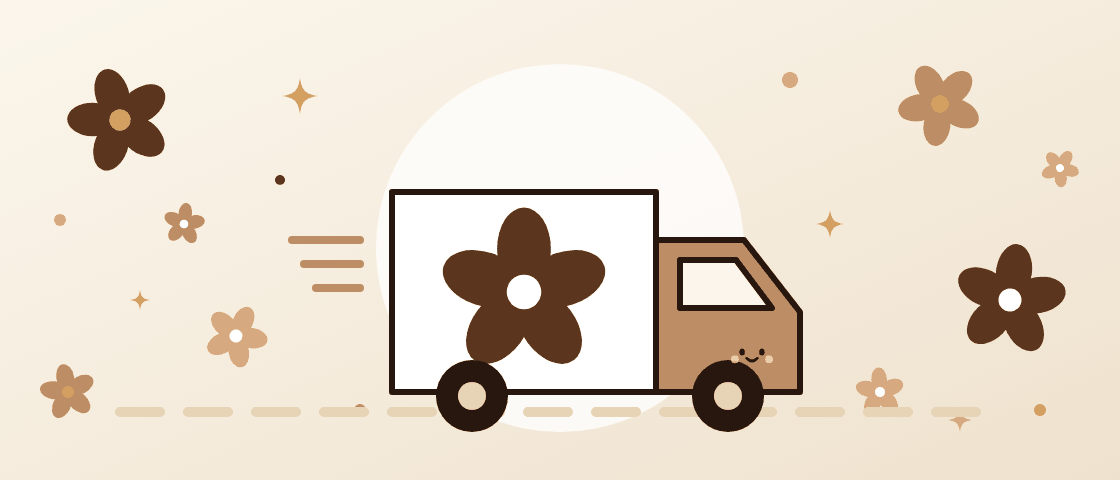
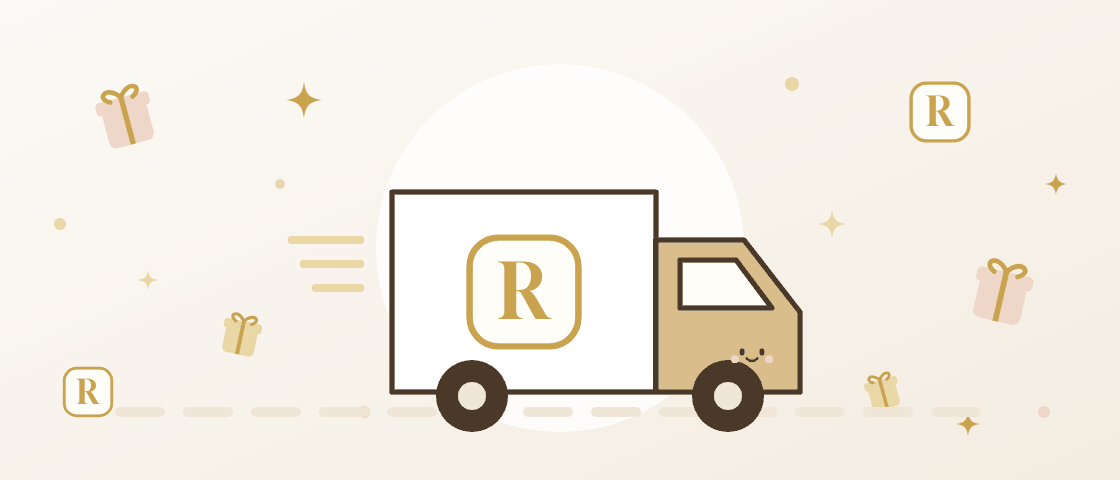
Emails: new pastel/gold hero illustrations with the R monogram (no Azalea flowers), calm RBC palette and sans headings; Supabase templates use links that work in any browser, plus the code
Claude-Session: https://claude.ai/code/session_017r2n3BfUiKovAfFsusU44H

diff --git a/scripts/email-heroes/heroes.js b/scripts/email-heroes/heroes.js
@@ -1,51 +1,67 @@
-// Whimsical email heroes: one scene per email, RBC flowers floating around. 560x240 canvas.
-const K = '#27170E', P = '#5B351D', L = '#BD8D65', LL = '#E7D3B6', PK = '#D8A579', BL = '#E7C9A6', CR = '#FBF6EC', Y = '#E0A456', M = '#CBBfa0', W = '#FFFFFF';
+// Email heroes for The RBC Brand: one calm scene per email, pastel oat ground, gold accents,
+// the R monogram where Azalea used flowers. 560x240 canvas. Rendered to PNG by render.js.
+const K = '#4A3829';   // soft coffee outline (never the heavy dark brown)
+const P = '#D9BE8C';   // warm sand: main object fill
+const G = '#C9A34E';   // gold accent
+const GL = '#EAD7A6';  // pale gold
+const L = '#E2D2BC';   // camel light
+const LL = '#EFE6D8';  // oat
+const PK = '#EED6C8';  // blush
+const BL = '#F2D3C2';  // cheeks
+const CR = '#FFFDF8';  // cream
+const SG = '#DCE5D3';  // soft sage (ticks, success)
+const W = '#FFFFFF';
 const S0 = `stroke-linejoin="round" stroke-linecap="round"`;
-const S = `stroke="${K}" stroke-width="3" ${S0}`;
+const S = `stroke="${K}" stroke-width="2.6" ${S0}`;
 
-const flower = (x, y, s = 1, c = P, r = 0, core = W) => `<g transform="translate(${x} ${y}) rotate(${r}) scale(${s})">${[0, 72, 144, 216, 288].map((a) => `<ellipse cx="0" cy="-9" rx="5.6" ry="8.6" fill="${c}" transform="rotate(${a})"/>`).join('')}<circle r="3.6" fill="${core}"/></g>`;
-const sparkle = (x, y, s = 1, c = Y) => `<path transform="translate(${x} ${y}) scale(${s})" d="M0-10 C1-3 3-1 10 0 C3 1 1 3 0 10 C-1 3 -3 1 -10 0 C-3 -1 -1 -3 0-10Z" fill="${c}"/>`;
+// the RBC mark: a rounded tile with a serif R
+const mono = (x, y, s = 1, fill = CR, ink = G) => `<g transform="translate(${x} ${y}) scale(${s})"><rect x="-17" y="-17" width="34" height="34" rx="9" fill="${fill}" stroke="${ink}" stroke-width="2"/><text x="0" y="8.5" text-anchor="middle" font-family="Gloock, Georgia, serif" font-size="24" fill="${ink}">R</text></g>`;
+const seal = (x, y, s = 1) => `<g transform="translate(${x} ${y}) scale(${s})"><circle r="15" fill="${G}" ${S} stroke-width="2.2"/><text x="0" y="6.5" text-anchor="middle" font-family="Gloock, Georgia, serif" font-size="18" fill="${CR}">R</text></g>`;
+const sparkle = (x, y, s = 1, c = G) => `<path transform="translate(${x} ${y}) scale(${s})" d="M0-10 C1-3 3-1 10 0 C3 1 1 3 0 10 C-1 3 -3 1 -10 0 C-3 -1 -1 -3 0-10Z" fill="${c}"/>`;
 const dot = (x, y, r = 3, c = L) => `<circle cx="${x}" cy="${y}" r="${r}" fill="${c}"/>`;
+const gift = (x, y, s = 1, c = PK, r = 0) => `<g transform="translate(${x} ${y}) rotate(${r}) scale(${s})"><rect x="-10" y="-8" width="20" height="17" rx="3" fill="${c}"/><rect x="-12" y="-12" width="24" height="6" rx="2" fill="${c}"/><path d="M0 -12 V9" stroke="${G}" stroke-width="2.4"/><path d="M0 -12 c-5 -7 -11 -2 -5 1 M0 -12 c5 -7 11 -2 5 1" fill="none" stroke="${G}" stroke-width="2" ${S0}/></g>`;
 const face = (x, y, s = 1, mood = 'happy') => `<g transform="translate(${x} ${y}) scale(${s})">
-  <ellipse cx="-11" cy="0" rx="3" ry="4" fill="${K}"/><ellipse cx="11" cy="0" rx="3" ry="4" fill="${K}"/>
-  <circle cx="-19" cy="8" r="4.5" fill="${BL}" opacity=".9"/><circle cx="19" cy="8" r="4.5" fill="${BL}" opacity=".9"/>
-  ${mood === 'happy' ? `<path d="M-6 7 Q0 13 6 7" fill="none" ${S} stroke-width="2.6"/>` : mood === 'wow' ? `<ellipse cx="0" cy="9" rx="3.4" ry="4" fill="${K}"/>` : mood === 'sad' ? `<path d="M-6 11 Q0 6 6 11" fill="none" ${S} stroke-width="2.6"/>` : `<path d="M-5 9 L5 9" ${S} stroke-width="2.6"/>`}</g>`;
-const motion = (x, y, n = 3, len = 26) => Array.from({ length: n }, (_, i) => `<path d="M${x} ${y + i * 12} h-${len - i * 6}" ${S0} stroke="${L}" stroke-width="4"/>`).join('');
+  <ellipse cx="-11" cy="0" rx="2.8" ry="3.8" fill="${K}"/><ellipse cx="11" cy="0" rx="2.8" ry="3.8" fill="${K}"/>
+  <circle cx="-19" cy="8" r="4.5" fill="${BL}"/><circle cx="19" cy="8" r="4.5" fill="${BL}"/>
+  ${mood === 'happy' ? `<path d="M-6 7 Q0 13 6 7" fill="none" ${S} stroke-width="2.4"/>` : mood === 'wow' ? `<ellipse cx="0" cy="9" rx="3.2" ry="3.8" fill="${K}"/>` : `<path d="M-5 9 L5 9" ${S} stroke-width="2.4"/>`}</g>`;
+const motion = (x, y, n = 3, len = 26) => Array.from({ length: n }, (_, i) => `<path d="M${x} ${y + i * 12} h-${len - i * 6}" ${S0} stroke="${GL}" stroke-width="4"/>`).join('');
 
-// floating flowers + confetti shared by every scene (positions avoid the centre)
+// floating gifts, monograms and sparkles shared by every scene (kept clear of the centre)
 const floaters = (seed = 0) => {
-  const f = [[60, 60, 1.5, P, 12], [118, 168, .9, PK, -20], [92, 112, .6, L, 30], [470, 52, 1.2, L, -8], [505, 150, 1.6, P, 25], [440, 196, .7, PK, 10], [34, 196, .8, L, 0], [530, 84, .55, PK, 40]];
-  const sp = [[150, 48, .9, Y], [415, 112, .7, Y], [480, 210, .6, PK], [70, 150, .5, Y]];
-  const d = [[180, 205, 3, L], [395, 40, 4, PK], [140, 90, 2.5, P], [520, 205, 3, Y], [30, 110, 3, PK]];
-  return f.map((a, i) => flower(a[0], a[1], a[2], a[3], a[4] + seed * 17 + i * 3, i % 3 ? W : Y)).join('') + sp.map((a) => sparkle(...a)).join('') + d.map((a) => dot(...a)).join('');
+  const gifts = [[64, 62, 1.15, PK, -10], [120, 170, .8, GL, 12], [500, 150, 1.2, PK, 8], [442, 198, .7, GL, -14]];
+  const monos = [[470, 56, .85], [44, 196, .7]];
+  const sp = [[152, 50, .9, G], [416, 112, .7, GL], [484, 212, .6, G], [74, 140, .5, GL], [528, 92, .55, G]];
+  const d = [[182, 206, 3, L], [396, 42, 3.5, GL], [140, 92, 2.5, L], [522, 206, 3, PK], [30, 112, 3, GL]];
+  return gifts.map((a, i) => gift(a[0], a[1], a[2], a[3], a[4] + ((seed * 7 + i * 5) % 11) - 5)).join('') + monos.map((a) => mono(...a)).join('') + sp.map((a) => sparkle(...a)).join('') + d.map((a) => dot(...a)).join('');
 };
-const ground = (w = 200) => `<ellipse cx="280" cy="214" rx="${w / 2}" ry="10" fill="${LL}" opacity=".85"/>`;
+const ground = (w = 200) => `<ellipse cx="280" cy="214" rx="${w / 2}" ry="9" fill="${LL}"/>`;
 const scene = (body, seed) => `<svg xmlns="http://www.w3.org/2000/svg" viewBox="0 0 560 240" width="560" height="240">
-<defs><linearGradient id="bg" x1="0" y1="0" x2="1" y2="1"><stop offset="0" stop-color="#FBF6EC"/><stop offset="1" stop-color="#EFE2CE"/></linearGradient></defs>
+<defs><linearGradient id="bg" x1="0" y1="0" x2="1" y2="1"><stop offset="0" stop-color="#FCFAF6"/><stop offset="1" stop-color="#F3ECE1"/></linearGradient></defs>
 <rect width="560" height="240" fill="url(#bg)"/>
-<circle cx="280" cy="124" r="92" fill="${W}" opacity=".75"/>
+<circle cx="280" cy="124" r="92" fill="${W}" opacity=".8"/>
 ${floaters(seed)}${body}</svg>`;
 
 const envelope = (x, y, w, h, fill = W, flap = LL) => `<rect x="${x}" y="${y}" width="${w}" height="${h}" rx="10" fill="${fill}" ${S}/><path d="M${x + 4} ${y + 6} L${x + w / 2} ${y + h * .55} L${x + w - 4} ${y + 6}" fill="${flap}" ${S}/>`;
-const key = (x, y, r = 0, s = 1) => `<g transform="translate(${x} ${y}) rotate(${r}) scale(${s})"><path d="M14 0 H62 M48 0 v12 M58 0 v9" ${S} stroke-width="11"/><path d="M14 0 H62 M48 0 v12 M58 0 v9" stroke="${Y}" stroke-width="5" stroke-linecap="round" fill="none"/><circle r="18" fill="${Y}" ${S}/><circle r="6" fill="${CR}" ${S} stroke-width="2.4"/></g>`;
-const box = (x, y, w, h, c = '#E8C79A', top = '#F2D7AE') => `<path d="M${x} ${y} h${w} v${h} h-${w}Z" fill="${c}" ${S}/><path d="M${x - 8} ${y - 18} h${w + 16} v18 h-${w + 16}Z" fill="${top}" ${S}/>`;
-const bag = (x, y, w = 110, h = 100, c = P) => `<path d="M${x + w * .3} ${y} q0 -34 ${w * .2} -34 q${w * .2} 0 ${w * .2} 34" fill="none" ${S} stroke-width="5"/><path d="M${x} ${y} h${w} l8 ${h} h-${w + 16}Z" fill="${c}" ${S}/>`;
+const key = (x, y, r = 0, s = 1) => `<g transform="translate(${x} ${y}) rotate(${r}) scale(${s})"><path d="M14 0 H62 M48 0 v12 M58 0 v9" ${S} stroke-width="10"/><path d="M14 0 H62 M48 0 v12 M58 0 v9" stroke="${G}" stroke-width="4.5" stroke-linecap="round" fill="none"/><circle r="18" fill="${G}" ${S}/><circle r="6" fill="${CR}" ${S} stroke-width="2.2"/></g>`;
+const box = (x, y, w, h, c = P, top = GL) => `<path d="M${x} ${y} h${w} v${h} h-${w}Z" fill="${c}" ${S}/><path d="M${x - 8} ${y - 18} h${w + 16} v18 h-${w + 16}Z" fill="${top}" ${S}/>`;
+const bag = (x, y, w = 110, h = 100, c = P) => `<path d="M${x + w * .3} ${y} q0 -34 ${w * .2} -34 q${w * .2} 0 ${w * .2} 34" fill="none" ${S} stroke-width="4.5"/><path d="M${x} ${y} h${w} l8 ${h} h-${w + 16}Z" fill="${c}" ${S}/>`;
+const coin = (x, y, r = 40) => `<circle cx="${x}" cy="${y}" r="${r}" fill="${G}" ${S}/><circle cx="${x}" cy="${y}" r="${r * .7}" fill="none" stroke="${GL}" stroke-width="3"/><text x="${x}" y="${y + r * .32}" text-anchor="middle" font-family="Gloock, Georgia, serif" font-size="${r * .9}" fill="${CR}">R</text>`;
 
 const H = {
-  signin: scene(`${ground(190)}${envelope(208, 92, 144, 104)}${face(280, 166)}${key(372, 80, 35, 1)}${flower(280, 92, 1.1, P, 0, Y)}`, 1),
-  confirm: scene(`${ground(190)}${envelope(208, 92, 144, 104)}${face(280, 168)}<circle cx="352" cy="92" r="24" fill="${M}" ${S}/><path d="M341 92 l8 8 l15 -16" fill="none" ${S} stroke-width="4"/>`, 2),
+  signin: scene(`${ground(190)}${envelope(208, 92, 144, 104)}${face(280, 166)}${key(372, 80, 35, 1)}${seal(280, 94, 1.1)}`, 1),
+  confirm: scene(`${ground(190)}${envelope(208, 92, 144, 104)}${face(280, 168)}${seal(280, 94, 1)}<circle cx="352" cy="92" r="24" fill="${SG}" ${S}/><path d="M341 92 l8 8 l15 -16" fill="none" ${S} stroke-width="3.6"/>`, 2),
   recovery: scene(`${ground(170)}<circle cx="280" cy="120" r="64" fill="${LL}" ${S}/><path d="M272 104 a12 12 0 1 1 16 0 l6 34 h-28Z" fill="${K}"/>${key(200, 176, -30, .9)}${face(280, 158, .55)}${sparkle(352, 72, 1.1)}`, 3),
-  email_change: scene(`${ground(240)}${envelope(170, 104, 100, 76, W, LL)}${envelope(292, 104, 100, 76, LL, L)}${face(220, 160, .7)}${face(342, 160, .7)}<path d="M240 86 q41 -30 82 0" fill="none" ${S} stroke-width="3.5"/><path d="M314 78 l9 8 l-11 4" fill="none" ${S} stroke-width="3.5"/>`, 4),
-  invite: scene(`${ground(190)}<path d="M212 104 L280 56 L348 104" fill="${LL}" ${S}/><rect x="226" y="72" width="108" height="80" rx="6" fill="${CR}" ${S}/><path d="M246 96 h68 M246 112 h50" ${S0} stroke="${L}" stroke-width="4"/>${envelope(208, 104, 144, 92, W, 'none')}${face(280, 172)}<path d="M268 52 L280 18 L292 52Z" fill="${PK}" ${S}/>${dot(280, 16, 5, Y)}${sparkle(196, 70, .9, PK)}${sparkle(366, 64, 1, Y)}`, 5),
-  reauth: scene(`${ground(170)}<path d="M280 46 L338 66 V118 C338 156 310 180 280 192 C250 180 222 156 222 118 V66Z" fill="${L}" ${S}/>${face(280, 112, .9)}<g>${[0, 1, 2, 3].map((i) => `<rect x="${243 + i * 20}" y="142" width="14" height="18" rx="4" fill="${W}" ${S} stroke-width="2.4"/>`).join('')}</g>`, 6),
-  paid: scene(`${ground(200)}<rect x="330" y="92" width="58" height="84" rx="6" fill="${W}" ${S} transform="rotate(10 359 134)"/><path d="M345 112 h30 M345 126 h22 M345 140 h28" ${S0} stroke="${LL}" stroke-width="4" transform="rotate(10 359 134)"/>${bag(222, 104, 112, 102)}${face(278, 150)}<path d="M278 134 c-8 -12 -24 -4 -12 10 l12 10 l12 -10 c12 -14 -4 -22 -12 -10Z" fill="${PK}" ${S} stroke-width="2.4" transform="translate(0 -18)"/>`, 7),
-  transfer: scene(`${ground(240)}<rect x="176" y="62" width="78" height="138" rx="14" fill="${K}"/><rect x="183" y="74" width="64" height="112" rx="8" fill="${W}"/><text x="215" y="130" text-anchor="middle" font-family="Georgia,serif" font-size="34" fill="${P}">₦</text>${face(215, 152, .55)}<path d="M266 128 h56" ${S} stroke-width="4" stroke-dasharray="2 9"/><path d="M318 118 l12 10 l-12 10" fill="none" ${S} stroke-width="4"/><circle cx="372" cy="140" r="40" fill="${Y}" ${S}/><circle cx="372" cy="140" r="28" fill="none" ${S0} stroke="#E8B53E" stroke-width="3"/>${flower(372, 140, 1.4, P, 10, Y)}`, 8),
-  delivery_fee: scene(`${ground(180)}<path d="M228 52 h104 v150 l-13 -9 l-13 9 l-13 -9 l-13 9 l-13 -9 l-13 9 l-13 -9 l-13 9Z" fill="${W}" ${S}/><text x="280" y="98" text-anchor="middle" font-family="Georgia,serif" font-size="30" fill="${P}">₦</text><path d="M248 118 h64 M248 134 h46" ${S0} stroke="${LL}" stroke-width="4"/>${face(280, 160, .7)}<g transform="rotate(35 360 120)"><rect x="352" y="72" width="16" height="84" rx="3" fill="${Y}" ${S}/><path d="M352 156 l8 16 l8 -16Z" fill="${CR}" ${S}/><rect x="352" y="72" width="16" height="12" fill="${PK}" ${S}/></g>`, 9),
-  packed: scene(`${ground(210)}${box(220, 110, 120, 92)}<path d="M280 92 v110" ${S0} stroke="${P}" stroke-width="10"/><path d="M280 94 c-22 -26 -44 -6 -22 6Z M280 94 c22 -26 44 -6 22 6Z" fill="${P}" ${S}/><circle cx="280" cy="94" r="7" fill="${PK}" ${S}/>${face(250, 154, .75)}${flower(318, 168, .9, P, 0, Y)}`, 10),
-  shipped: scene(`<path d="M60 206 H500" ${S0} stroke="${LL}" stroke-width="5" stroke-dasharray="20 14"/><path d="M196 96 h132 v100 h-132Z" fill="${W}" ${S}/><path d="M328 120 h44 l28 36 v40 h-72Z" fill="${L}" ${S}/><path d="M340 130 h28 l18 24 h-46Z" fill="${CR}" ${S}/>${flower(262, 146, 2.4, P, 0, W)}<circle cx="236" cy="198" r="18" fill="${K}"/><circle cx="236" cy="198" r="7" fill="${LL}"/><circle cx="364" cy="198" r="18" fill="${K}"/><circle cx="364" cy="198" r="7" fill="${LL}"/>${motion(180, 120, 3, 34)}${face(376, 176, .45)}`, 11),
-  pickup: scene(`${ground(230)}<rect x="196" y="98" width="168" height="104" fill="${CR}" ${S}/><path d="M188 74 h184 l-8 28 h-168Z" fill="${W}" ${S}/>${[0, 1, 2, 3, 4, 5].map((i) => `<path d="M${196 + i * 28} 102 a14 14 0 0 0 28 0" fill="${i % 2 ? W : PK}" ${S}/>`).join('')}<rect x="300" y="138" width="40" height="64" rx="4" fill="${L}" ${S}/>${bag(214, 160, 56, 42, P)}${flower(242, 180, .7, W, 0, Y)}<text x="280" y="94" text-anchor="middle" font-family="Georgia,serif" font-size="16" fill="${P}">azalea</text>${face(320, 168, .45)}`, 12),
-  delivered: scene(`${ground(220)}${box(222, 130, 116, 72)}<path d="M214 112 l-30 -26 l38 -4 Z" fill="#F2D7AE" ${S}/><path d="M346 112 l30 -26 l-38 -4Z" fill="#F2D7AE" ${S}/>${flower(258, 82, 1.5, P, 10, Y)}${flower(304, 70, 1.8, PK, -10, W)}${flower(282, 108, 1.2, L, 20, Y)}${sparkle(230, 60, 1.1)}${sparkle(334, 44, .9, PK)}${face(280, 166, .9)}`, 13),
-  cancelled: scene(`${ground(200)}${box(226, 120, 108, 82, '#E6DCEF', '#F1EAF7')}${face(280, 162, .85, 'flat')}<rect x="320" y="84" width="54" height="34" rx="6" fill="${W}" ${S} transform="rotate(12 347 101)"/><path d="M339 93 l14 14 M353 93 l-14 14" ${S0} stroke="${PK}" stroke-width="4" transform="rotate(12 347 101)"/><path d="M262 82 q8 -16 18 0 q8 -16 18 0" fill="none" ${S0} stroke="${L}" stroke-width="3"/>`, 14),
-  team: scene(`${ground(200)}<path d="M240 168 c0 -60 10 -92 40 -92 s40 32 40 92Z" fill="${Y}" ${S}/><rect x="226" y="166" width="108" height="16" rx="8" fill="${Y}" ${S}/><circle cx="280" cy="192" r="10" fill="${P}" ${S}/><circle cx="280" cy="70" r="7" fill="${Y}" ${S}/>${face(280, 132, .8, 'wow')}<path d="M210 96 q-12 22 0 44 M196 86 q-18 32 0 64 M350 96 q12 22 0 44 M364 86 q18 32 0 64" fill="none" ${S0} stroke="${P}" stroke-width="3.5"/>`, 15),
+  email_change: scene(`${ground(240)}${envelope(170, 104, 100, 76, W, LL)}${envelope(292, 104, 100, 76, GL, P)}${face(220, 160, .7)}${face(342, 160, .7)}<path d="M240 86 q41 -30 82 0" fill="none" ${S} stroke-width="3.2"/><path d="M314 78 l9 8 l-11 4" fill="none" ${S} stroke-width="3.2"/>`, 4),
+  invite: scene(`${ground(190)}<path d="M212 104 L280 56 L348 104" fill="${LL}" ${S}/><rect x="226" y="72" width="108" height="80" rx="6" fill="${CR}" ${S}/><path d="M246 96 h68 M246 112 h50" ${S0} stroke="${GL}" stroke-width="4"/>${envelope(208, 104, 144, 92, W, 'none')}${face(280, 172)}${mono(280, 40, 1.1)}${sparkle(196, 70, .9, GL)}${sparkle(366, 64, 1, G)}`, 5),
+  reauth: scene(`${ground(170)}<path d="M280 46 L338 66 V118 C338 156 310 180 280 192 C250 180 222 156 222 118 V66Z" fill="${GL}" ${S}/>${face(280, 112, .9)}<g>${[0, 1, 2, 3].map((i) => `<rect x="${243 + i * 20}" y="142" width="14" height="18" rx="4" fill="${W}" ${S} stroke-width="2.2"/>`).join('')}</g>`, 6),
+  paid: scene(`${ground(200)}<rect x="330" y="92" width="58" height="84" rx="6" fill="${W}" ${S} transform="rotate(10 359 134)"/><path d="M345 112 h30 M345 126 h22 M345 140 h28" ${S0} stroke="${LL}" stroke-width="4" transform="rotate(10 359 134)"/>${bag(222, 104, 112, 102)}${face(278, 150)}<path d="M278 134 c-8 -12 -24 -4 -12 10 l12 10 l12 -10 c12 -14 -4 -22 -12 -10Z" fill="${PK}" ${S} stroke-width="2.2" transform="translate(0 -18)"/>`, 7),
+  transfer: scene(`${ground(240)}<rect x="176" y="62" width="78" height="138" rx="14" fill="${K}"/><rect x="183" y="74" width="64" height="112" rx="8" fill="${W}"/><text x="215" y="130" text-anchor="middle" font-family="Georgia,serif" font-size="34" fill="${G}">₦</text>${face(215, 152, .55)}<path d="M266 128 h56" ${S} stroke-width="3.6" stroke-dasharray="2 9"/><path d="M318 118 l12 10 l-12 10" fill="none" ${S} stroke-width="3.6"/>${coin(372, 140)}`, 8),
+  delivery_fee: scene(`${ground(180)}<path d="M228 52 h104 v150 l-13 -9 l-13 9 l-13 -9 l-13 9 l-13 -9 l-13 9 l-13 -9 l-13 9Z" fill="${W}" ${S}/><text x="280" y="98" text-anchor="middle" font-family="Georgia,serif" font-size="30" fill="${G}">₦</text><path d="M248 118 h64 M248 134 h46" ${S0} stroke="${LL}" stroke-width="4"/>${face(280, 160, .7)}<g transform="rotate(35 360 120)"><rect x="352" y="72" width="16" height="84" rx="3" fill="${G}" ${S}/><path d="M352 156 l8 16 l8 -16Z" fill="${CR}" ${S}/><rect x="352" y="72" width="16" height="12" fill="${PK}" ${S}/></g>`, 9),
+  packed: scene(`${ground(210)}${box(220, 110, 120, 92)}<path d="M280 92 v110" ${S0} stroke="${G}" stroke-width="9"/><path d="M280 94 c-22 -26 -44 -6 -22 6Z M280 94 c22 -26 44 -6 22 6Z" fill="${G}" ${S}/><circle cx="280" cy="94" r="7" fill="${GL}" ${S}/>${face(250, 154, .75)}${mono(318, 168, .8)}`, 10),
+  shipped: scene(`<path d="M60 206 H500" ${S0} stroke="${LL}" stroke-width="5" stroke-dasharray="20 14"/><path d="M196 96 h132 v100 h-132Z" fill="${W}" ${S}/><path d="M328 120 h44 l28 36 v40 h-72Z" fill="${P}" ${S}/><path d="M340 130 h28 l18 24 h-46Z" fill="${CR}" ${S}/>${mono(262, 146, 1.6)}<circle cx="236" cy="198" r="18" fill="${K}"/><circle cx="236" cy="198" r="7" fill="${LL}"/><circle cx="364" cy="198" r="18" fill="${K}"/><circle cx="364" cy="198" r="7" fill="${LL}"/>${motion(180, 120, 3, 34)}${face(376, 176, .45)}`, 11),
+  pickup: scene(`${ground(230)}<rect x="196" y="98" width="168" height="104" fill="${CR}" ${S}/><path d="M188 74 h184 l-8 28 h-168Z" fill="${W}" ${S}/>${[0, 1, 2, 3, 4, 5].map((i) => `<path d="M${196 + i * 28} 102 a14 14 0 0 0 28 0" fill="${i % 2 ? W : GL}" ${S}/>`).join('')}<rect x="300" y="138" width="40" height="64" rx="4" fill="${P}" ${S}/>${bag(214, 160, 56, 42, PK)}<text x="280" y="94" text-anchor="middle" font-family="Gloock, Georgia, serif" font-size="17" fill="${G}">RBC</text>${face(320, 168, .45)}`, 12),
+  delivered: scene(`${ground(220)}${box(222, 130, 116, 72)}<path d="M214 112 l-30 -26 l38 -4 Z" fill="${GL}" ${S}/><path d="M346 112 l30 -26 l-38 -4Z" fill="${GL}" ${S}/>${gift(258, 84, 1.6, PK, -12)}${gift(306, 72, 1.8, GL, 10)}${mono(282, 108, .9)}${sparkle(230, 58, 1.1)}${sparkle(336, 42, .9, GL)}${face(280, 166, .9)}`, 13),
+  cancelled: scene(`${ground(200)}${box(226, 120, 108, 82, LL, CR)}${face(280, 162, .85, 'flat')}<rect x="320" y="84" width="54" height="34" rx="6" fill="${W}" ${S} transform="rotate(12 347 101)"/><path d="M339 93 l14 14 M353 93 l-14 14" ${S0} stroke="${PK}" stroke-width="4" transform="rotate(12 347 101)"/><path d="M262 82 q8 -16 18 0 q8 -16 18 0" fill="none" ${S0} stroke="${L}" stroke-width="3"/>`, 14),
+  team: scene(`${ground(200)}<path d="M240 168 c0 -60 10 -92 40 -92 s40 32 40 92Z" fill="${G}" ${S}/><rect x="226" y="166" width="108" height="16" rx="8" fill="${G}" ${S}/><circle cx="280" cy="192" r="10" fill="${GL}" ${S}/><circle cx="280" cy="70" r="7" fill="${G}" ${S}/>${face(280, 132, .8, 'wow')}<path d="M210 96 q-12 22 0 44 M196 86 q-18 32 0 64 M350 96 q12 22 0 44 M364 86 q18 32 0 64" fill="none" ${S0} stroke="${GL}" stroke-width="3.5"/>`, 15),
 };
 module.exports = H;

diff --git a/lib/emails.js b/lib/emails.js
@@ -5,7 +5,8 @@ export const SITE = (process.env.NEXT_PUBLIC_SITE_URL || '').replace(/\/$/, '');
 export const FROM = process.env.EMAIL_FROM || 'The RBC Brand <hello@the store>';
 const WA = (process.env.WHATSAPP_NUMBER || '2349067296284').replace(/\D/g, '');
 
-const C = { bg: '#F3ECDF', card: '#FFFFFF', ink: '#27170E', body: '#5B4636', muted: '#8A7B6B', line: '#E3D9C7', purple: '#5B351D', soft: '#F6EFE2', deep: '#27170E' };
+// RBC's calm palette: oat ground, coffee ink for text and buttons, antique gold for links and highlights
+const C = { bg: '#FBF9F5', card: '#FFFFFF', ink: '#3A2B21', body: '#6B5A48', muted: '#8C7D6F', line: '#EDE6DC', purple: '#3A2B21', soft: '#F4EFE8', deep: '#3A2B21', gold: '#8C6A1A', goldBar: '#C9A34E' };
 const SERIF = "Georgia, 'Times New Roman', serif";
 const SANS = "-apple-system, BlinkMacSystemFont, 'Segoe UI', Roboto, Helvetica, Arial, sans-serif";
 
@@ -34,7 +35,7 @@ Delivery fees depend on your location and package weight, and we confirm yours o
 const progress = (step, pickup) => {
   const steps = ['Confirmed', 'Packed', pickup ? 'Ready' : 'On its way', pickup ? 'Collected' : 'Delivered'];
   const cells = steps.map((s, i) => `<td width="25%" style="padding:0 3px;vertical-align:top">
-    <div style="height:6px;border-radius:999px;background:${i <= step ? C.purple : C.line};font-size:0;line-height:0">&nbsp;</div>
+    <div style="height:6px;border-radius:999px;background:${i <= step ? C.goldBar : C.line};font-size:0;line-height:0">&nbsp;</div>
     <div style="padding-top:8px;font-family:${SANS};font-size:12px;font-weight:700;color:${i <= step ? C.ink : C.muted}">${s}</div></td>`).join('');
   return `<table role="presentation" width="100%" cellpadding="0" cellspacing="0" border="0" style="margin:4px 0 22px"><tr>${cells}</tr></table>`;
 };
@@ -42,7 +43,7 @@ const progress = (step, pickup) => {
 const items = (o) => {
   const rows = (o.order_items || []).map((l) => `<tr>
     <td width="60" style="padding:10px 0;border-bottom:1px solid ${C.line}">${l.image ? `<img src="${esc(abs(l.image))}" width="52" height="52" alt="" style="display:block;width:52px;height:52px;border-radius:8px;object-fit:cover;background:${C.soft}">` : ''}</td>
-    <td style="padding:10px 12px;border-bottom:1px solid ${C.line};font-family:${SANS};font-size:14px;color:${C.ink}"><strong>${esc(l.name)}</strong><br><span style="color:${C.muted};font-size:13px">${esc(l.colour || '')} × ${l.qty}</span>${l.custom ? `<br><span style="color:${C.purple};font-size:13px">Personalise: “${esc(l.custom)}”</span>` : ''}${l.custom_photo ? `<br><a href="${esc(l.custom_photo)}" style="color:${C.purple};font-size:13px">📷 View customer picture</a>` : ''}${l.custom_fee > 0 ? `<br><span style="color:${C.muted};font-size:12px">incl. ${naira(l.custom_fee)} personalisation</span>` : ''}</td>
+    <td style="padding:10px 12px;border-bottom:1px solid ${C.line};font-family:${SANS};font-size:14px;color:${C.ink}"><strong>${esc(l.name)}</strong><br><span style="color:${C.muted};font-size:13px">${esc(l.colour || '')} × ${l.qty}</span>${l.custom ? `<br><span style="color:${C.gold};font-size:13px">Personalise: “${esc(l.custom)}”</span>` : ''}${l.custom_photo ? `<br><a href="${esc(l.custom_photo)}" style="color:${C.gold};font-size:13px">📷 View customer picture</a>` : ''}${l.custom_fee > 0 ? `<br><span style="color:${C.muted};font-size:12px">incl. ${naira(l.custom_fee)} personalisation</span>` : ''}</td>
     <td align="right" style="padding:10px 0;border-bottom:1px solid ${C.line};font-family:${SANS};font-size:14px;color:${C.ink};white-space:nowrap">${naira(l.price * l.qty)}</td></tr>`).join('');
   const line = (label, value, strong) => `<tr><td colspan="2" style="padding:6px 0;font-family:${SANS};font-size:${strong ? 16 : 14}px;color:${strong ? C.ink : C.body};${strong ? 'font-weight:700' : ''}">${label}</td><td align="right" style="padding:6px 0;font-family:${SANS};font-size:${strong ? 16 : 14}px;color:${strong ? C.ink : C.body};${strong ? 'font-weight:700' : ''};white-space:nowrap">${value}</td></tr>`;
   const pickup = o.delivery_mode === 'pickup';
@@ -77,13 +78,13 @@ export function layout({ preheader = '', eyebrow = '', title, body, hero = '', f
 <table role="presentation" width="100%" cellpadding="0" cellspacing="0" border="0" style="background:${C.bg}"><tr><td align="center" style="padding:28px 14px 40px">
   <table role="presentation" width="100%" cellpadding="0" cellspacing="0" border="0" style="max-width:560px">
     <tr><td align="center" style="padding:6px 0 22px">
-      <a href="${SITE}" target="_blank" style="text-decoration:none"><span style="display:inline-block;vertical-align:middle;width:30px;height:30px;border-radius:9px;background:${C.purple};color:#fff;font-family:${SERIF};font-size:17px;line-height:30px;text-align:center">R</span><span style="display:inline-block;vertical-align:middle;margin-left:8px;font-family:${SERIF};font-size:30px;line-height:1;color:${C.ink};letter-spacing:-.5px">RBC</span></a>
+      <a href="${SITE}" target="_blank" style="text-decoration:none"><span style="display:inline-block;vertical-align:middle;width:30px;height:30px;border-radius:9px;background:${C.soft};border:1px solid ${C.goldBar};color:${C.ink};font-family:${SERIF};font-size:17px;line-height:30px;text-align:center">R</span><span style="display:inline-block;vertical-align:middle;margin-left:8px;font-family:${SANS};font-weight:700;font-size:26px;line-height:1;color:${C.ink};letter-spacing:-.5px">RBC</span></a>
     </td></tr>
     <tr><td style="background:${C.card};border-radius:18px;padding:0;border:1px solid ${C.line};overflow:hidden">
       ${hero ? `<img src="${SITE}/email/hero/${hero}.png" width="560" alt="" style="display:block;width:100%;max-width:560px;height:auto;border:0;border-radius:17px 17px 0 0;background:${C.soft}">` : ''}
       <table role="presentation" width="100%" cellpadding="0" cellspacing="0" border="0"><tr><td style="padding:${hero ? '28px' : '36px'} 32px 30px">
-      ${eyebrow ? `<p style="margin:0 0 10px;font-family:${SANS};font-size:12px;font-weight:700;letter-spacing:.14em;text-transform:uppercase;color:${C.purple}">${eyebrow}</p>` : ''}
-      <h1 style="margin:0 0 18px;font-family:${SERIF};font-size:30px;line-height:1.15;font-weight:normal;color:${C.ink}">${title}</h1>
+      ${eyebrow ? `<p style="margin:0 0 10px;font-family:${SANS};font-size:12px;font-weight:700;letter-spacing:.14em;text-transform:uppercase;color:${C.gold}">${eyebrow}</p>` : ''}
+      <h1 style="margin:0 0 18px;font-family:${SANS};font-size:28px;line-height:1.15;font-weight:700;letter-spacing:-0.5px;color:${C.ink}">${title}</h1>
       ${body}
       <table role="presentation" width="100%" cellpadding="0" cellspacing="0" border="0" style="margin-top:22px;border-top:1px solid ${C.line}"><tr><td style="padding-top:18px;font-family:${SANS};font-size:14px;line-height:1.6;color:${C.body}">
         Warmly,<br><strong style="color:${C.ink}">the RBC team</strong> <span style="color:${C.muted}">from The RBC Brand</span>
@@ -91,7 +92,7 @@ export function layout({ preheader = '', eyebrow = '', title, body, hero = '', f
       </td></tr></table>
     </td></tr>
     <tr><td align="center" style="padding:22px 18px 0;font-family:${SANS};font-size:13px;line-height:1.7;color:${C.muted}">
-      Questions? <a href="${waLink('Hi, I have a question.')}" style="color:${C.purple};font-weight:700;text-decoration:none">Chat with us on WhatsApp</a><br>
+      Questions? <a href="${waLink('Hi, I have a question.')}" style="color:${C.gold};font-weight:700;text-decoration:none">Chat with us on WhatsApp</a><br>
       <a href="${SITE}/shop" style="color:${C.muted}">Shop</a> &nbsp;·&nbsp; <a href="${SITE}/account" style="color:${C.muted}">My account</a> &nbsp;·&nbsp; <a href="${SITE}/policies" style="color:${C.muted}">Delivery &amp; help</a><br>
       <a href="https://instagram.com" style="color:${C.muted}">Instagram</a> &nbsp;·&nbsp; <a href="https://www.tiktok.com" style="color:${C.muted}">TikTok</a><br>
       The RBC Brand · Nigeria<br>
@@ -102,39 +103,42 @@ export function layout({ preheader = '', eyebrow = '', title, body, hero = '', f
 </body></html>`;
 }
 
-// ---------- sign-in emails (pasted into Supabase → Authentication → Emails → Templates) ----------
-// Supabase fills in {{ .ConfirmationURL }}, {{ .Token }}, {{ .Email }}, {{ .NewEmail }} itself.
-const authNote = 'If you didn’t ask for this, you can ignore this email. Nobody can sign in without this link.';
+// ---------- sign-in emails (pasted into Supabase → Authentication → Emails) ----------
+// Supabase fills in {{ .SiteURL }}, {{ .TokenHash }}, {{ .Token }}, {{ .Email }} and {{ .NewEmail }} itself.
+// Links go through /auth/confirm, so they work whichever browser or email app opens them.
+const authLink = (type) => `{{ .SiteURL }}/auth/confirm?token_hash={{ .TokenHash }}&type=${type}&next=/account`;
+const codeBlock = (label) => p(label, 'margin-top:20px;margin-bottom:6px') + `<p style="margin:0 0 18px;font-family:${SANS};font-size:30px;font-weight:700;letter-spacing:8px;color:${C.gold}">{{ .Token }}</p>`;
+const authNote = 'If you didn’t ask for this, you can ignore this email. Nobody can sign in without this link or code.';
 export const AUTH_TEMPLATES = [
   {
-    key: 'magic_link', supabase: 'Magic Link', subject: 'Your RBC sign-in link',
-    html: layout({ preheader: 'Tap the button to sign in. The link works once and expires in 1 hour.', hero: 'signin', eyebrow: 'Sign in', title: 'Here’s your sign-in link',
-      body: p('Tap the button below to sign in to your RBC account. No password needed.') + button('{{ .ConfirmationURL }}', 'Sign in to RBC') + small('The link works once and expires in 1 hour. Open it on the same device you asked from.') + small(authNote) }),
+    key: 'confirmation', supabase: 'Confirm signup', subject: 'Welcome to The RBC Brand',
+    html: layout({ preheader: 'One tap to confirm your email and finish signing in.', hero: 'confirm', title: 'Welcome to The RBC Brand',
+      body: p('Thanks for joining us. Confirm your email to finish signing in. Your account keeps your orders in one place and lets you review what you’ve bought.') + button(authLink('email'), 'Confirm and sign in') + codeBlock('Or enter this code on the website:') + small(authNote) }),
   },
   {
-    key: 'confirmation', supabase: 'Confirm signup', subject: 'Confirm your email for The RBC Brand',
-    html: layout({ preheader: 'One tap to confirm your email and finish signing in.', hero: 'confirm', eyebrow: 'Welcome', title: 'Welcome to The RBC Brand',
-      body: p('Thanks for joining us. Confirm your email to finish signing in. Your account keeps your orders in one place and lets you review what you’ve bought.') + button('{{ .ConfirmationURL }}', 'Confirm my email') + small('This link expires in 24 hours.') + small(authNote) }),
+    key: 'invite', supabase: 'Invite user', subject: 'You’re invited to The RBC Brand',
+    html: layout({ preheader: 'Accept your invitation to The RBC Brand.', hero: 'invite', title: 'You’re invited',
+      body: p('You’ve been invited to The RBC Brand. Tap below to accept and sign in.') + button(authLink('invite'), 'Accept invite') + small('If you weren’t expecting this, you can ignore this email.') }),
   },
   {
-    key: 'recovery', supabase: 'Reset Password', subject: 'Reset your RBC password',
-    html: layout({ preheader: 'Use this link to choose a new password.', hero: 'recovery', eyebrow: 'Account', title: 'Reset your password',
-      body: p('We got a request to reset the password for <strong>{{ .Email }}</strong>. Tap below to choose a new one.') + button('{{ .ConfirmationURL }}', 'Choose a new password') + small('The link expires in 1 hour.') + small('Didn’t ask for this? Your password hasn’t changed, and you can ignore this email.') }),
+    key: 'magic_link', supabase: 'Magic Link', subject: 'Your sign-in link for The RBC Brand',
+    html: layout({ preheader: 'Tap the button to sign in. The link works once and expires in 1 hour.', hero: 'signin', title: 'Sign in to your account',
+      body: p('Tap the button below to sign in. No password needed.') + button(authLink('email'), 'Sign in') + codeBlock('Or enter this code on the website:') + small('The link works once and expires in 1 hour.') + small(authNote) }),
   },
   {
-    key: 'email_change', supabase: 'Change Email Address', subject: 'Confirm your new email for RBC',
-    html: layout({ preheader: 'Confirm the new email address on your RBC account.', hero: 'email_change', eyebrow: 'Account', title: 'Confirm your new email',
-      body: p('You asked to change your RBC email from <strong>{{ .Email }}</strong> to <strong>{{ .NewEmail }}</strong>. Tap below to confirm.') + button('{{ .ConfirmationURL }}', 'Confirm new email') + small('If this wasn’t you, ignore this email and your account stays as it is.') }),
+    key: 'email_change', supabase: 'Change Email Address', subject: 'Confirm your new email for The RBC Brand',
+    html: layout({ preheader: 'Confirm the new email address on your account.', hero: 'email_change', title: 'Confirm your new email',
+      body: p('You asked to change your email from <strong>{{ .Email }}</strong> to <strong>{{ .NewEmail }}</strong>. Tap below to confirm.') + button(authLink('email_change'), 'Confirm new email') + small('If this wasn’t you, ignore this email and your email stays the same.') }),
   },
   {
-    key: 'invite', supabase: 'Invite user', subject: 'You’re invited to the RBC team',
-    html: layout({ preheader: 'Accept your invitation to the RBC admin.', hero: 'invite', eyebrow: 'Team', title: 'You’re invited to RBC',
-      body: p('You’ve been invited to help run the RBC store. Accept below to set up your account, then you’ll find the admin at ${SITE}/admin.') + button('{{ .ConfirmationURL }}', 'Accept invitation') + small('This invitation expires in 24 hours.') }),
+    key: 'recovery', supabase: 'Reset Password', subject: 'Sign in to The RBC Brand',
+    html: layout({ preheader: 'Use this link to sign in.', hero: 'recovery', title: 'Sign in to your account',
+      body: p('Someone asked to reset the password for <strong>{{ .Email }}</strong>. The RBC Brand signs you in by email, so tap below to sign in.') + button(authLink('recovery'), 'Sign in') + small(authNote) }),
   },
   {
-    key: 'reauthentication', supabase: 'Reauthentication', subject: 'Your RBC verification code',
-    html: layout({ preheader: 'Your one-time code to confirm it’s you.', hero: 'reauth', eyebrow: 'Security', title: 'Confirm it’s you',
-      body: p('Enter this code to continue:') + `<p style="margin:6px 0 20px;font-family:${SANS};font-size:32px;font-weight:700;letter-spacing:8px;color:${C.ink}">{{ .Token }}</p>` + small('The code expires in a few minutes. Never share it with anyone, including people who say they’re from The RBC Brand.') }),
+    key: 'reauthentication', supabase: 'Reauthentication', subject: 'Your confirmation code for The RBC Brand',
+    html: layout({ preheader: 'Your one-time code to confirm it’s you.', hero: 'reauth', title: 'Confirm it’s you',
+      body: codeBlock('Enter this code to confirm the change on your account:') + small('The code expires in a few minutes. Never share it with anyone, including us.') }),
   },
 ];
 
@@ -165,7 +169,7 @@ export function orderEmail(kind, o) {
       const card = `<table role="presentation" width="100%" cellpadding="0" cellspacing="0" border="0" style="margin:4px 0 22px;background:${C.soft};border-radius:14px"><tr><td style="padding:6px 18px 8px"><table role="presentation" width="100%" cellpadding="0" cellspacing="0" border="0">
         ${row('Amount to pay', naira(o.total), true)}
         ${bank.length ? bank.map(([k, v]) => row(esc(k), esc(v), /account number/i.test(k))).join('') : row('Bank details', 'the RBC team will send them on WhatsApp')}
-        <tr><td style="padding:10px 0;font-family:${SANS};font-size:13px;color:${C.muted}">Reference / narration</td><td align="right" style="padding:10px 0;font-family:${SANS};font-size:15px;font-weight:700;color:${C.purple}">${esc(o.number)}</td></tr>
+        <tr><td style="padding:10px 0;font-family:${SANS};font-size:13px;color:${C.muted}">Reference / narration</td><td align="right" style="padding:10px 0;font-family:${SANS};font-size:15px;font-weight:700;color:${C.gold}">${esc(o.number)}</td></tr>
       </table></td></tr></table>`;
       const step = (n, text) => `<tr><td width="34" style="vertical-align:top;padding:0 0 12px"><div style="width:26px;height:26px;border-radius:50%;background:${C.purple};color:#fff;font-family:${SANS};font-size:13px;font-weight:700;line-height:26px;text-align:center">${n}</div></td><td style="vertical-align:top;padding:3px 0 12px;font-family:${SANS};font-size:15px;line-height:1.5;color:${C.body}">${text}</td></tr>`;
       return {
@@ -270,8 +274,8 @@ export function staffOrderEmail(kind, o) {
       ? `<strong>${esc(o.first_name)} ${esc(o.last_name)}</strong> placed an order and will pay <strong>${naira(o.total)}</strong> by bank transfer. When the money lands in the account with reference <strong>${esc(o.number)}</strong>, open the order and mark it paid. Unpaid transfer orders cancel themselves after 24 hours.`
       : `<strong>${esc(o.first_name)} ${esc(o.last_name)}</strong> just paid <strong>${naira(o.total)}</strong>. It’s ready to pack.`)
     + `<table role="presentation" width="100%" cellpadding="0" cellspacing="0" border="0" style="margin:0 0 20px">
-      ${row('Customer', `${esc(o.first_name)} ${esc(o.last_name)}<br><a href="mailto:${esc(o.email)}" style="color:${C.purple}">${esc(o.email)}</a>`)}
-      ${row('WhatsApp', phone ? `<a href="https://wa.me/${phone}" style="color:${C.purple}">${esc(o.phone)}</a>` : '—')}
+      ${row('Customer', `${esc(o.first_name)} ${esc(o.last_name)}<br><a href="mailto:${esc(o.email)}" style="color:${C.gold}">${esc(o.email)}</a>`)}
+      ${row('WhatsApp', phone ? `<a href="https://wa.me/${phone}" style="color:${C.gold}">${esc(o.phone)}</a>` : '—')}
       ${row(pickup ? 'Pickup' : 'Deliver to', where)}
       ${row('Delivery', `${esc(o.delivery_name || '')}${pickup ? '' : ' · <strong>send the delivery fee</strong>'}`)}
       ${row('Payment', PAY_LABEL[o.payment_method] || esc(o.payment_method))}
